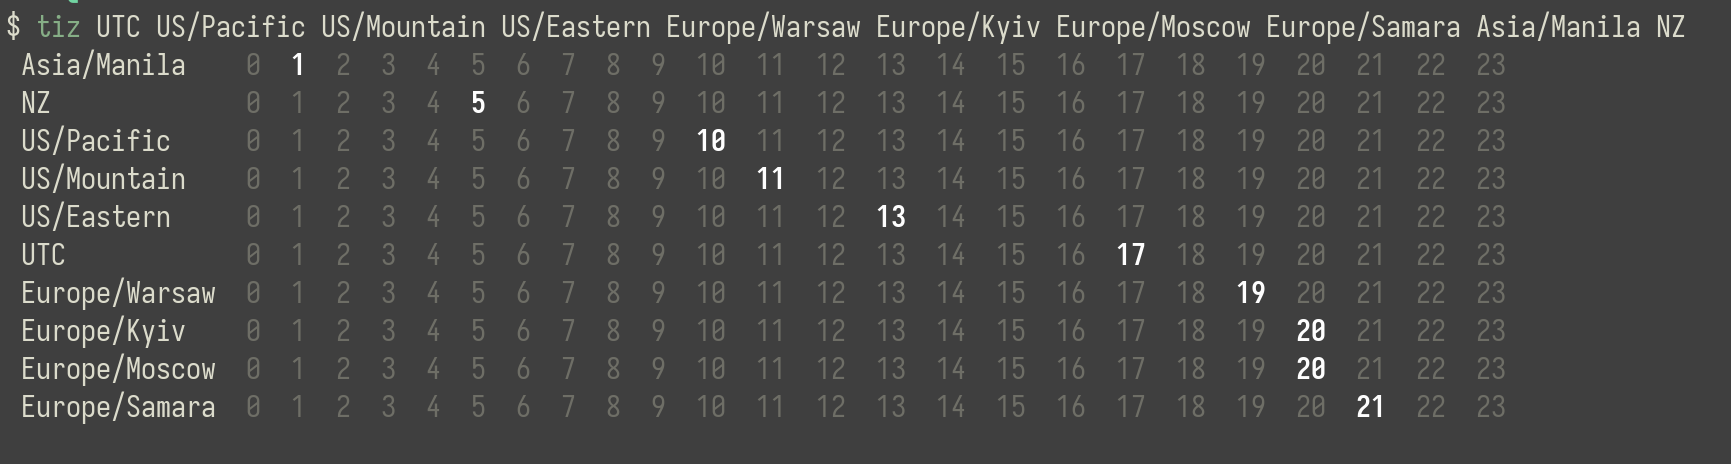
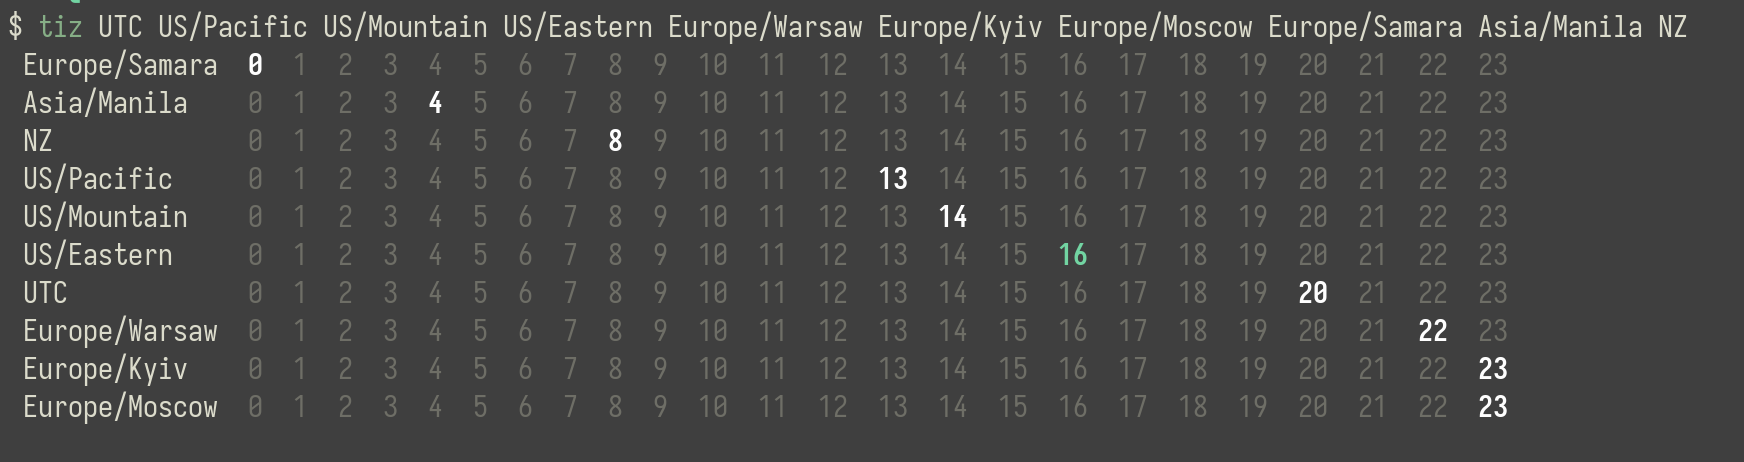
Highlight local time zone if possible

diff --git a/src/main.rs b/src/main.rs
@@ -18,6 +18,7 @@ fn main() -> anyhow::Result<()> {
             .map_err(|_| anyhow!("Invalid time zone: {:?}", zone))?;
         zones.push(zone);
     }
+    let tz_local: Option<Tz> = std::env::var("TZ").ok().and_then(|tz| tz.parse().ok());
     let hour_in_zone: HashMap<Tz, u32> = zones
         .into_iter()
         .map(|tz| (tz, Utc::now().with_timezone(&tz).hour()))
@@ -31,11 +32,14 @@ fn main() -> anyhow::Result<()> {
         let mut row: Vec<String> = hours
             .iter()
             .map(|h| {
-                let h_str = h.to_string();
+                let hour = console::style(h);
                 if *h == tz_h {
-                    console::style(h_str).bold().to_string()
+                    match tz_local {
+                        Some(tz_local) if tz == tz_local => hour.green().bold().to_string(),
+                        _ => hour.white().bold().to_string(),
+                    }
                 } else {
-                    console::style(h_str).dim().to_string()
+                    hour.white().dim().to_string()
                 }
             })
             .collect();
